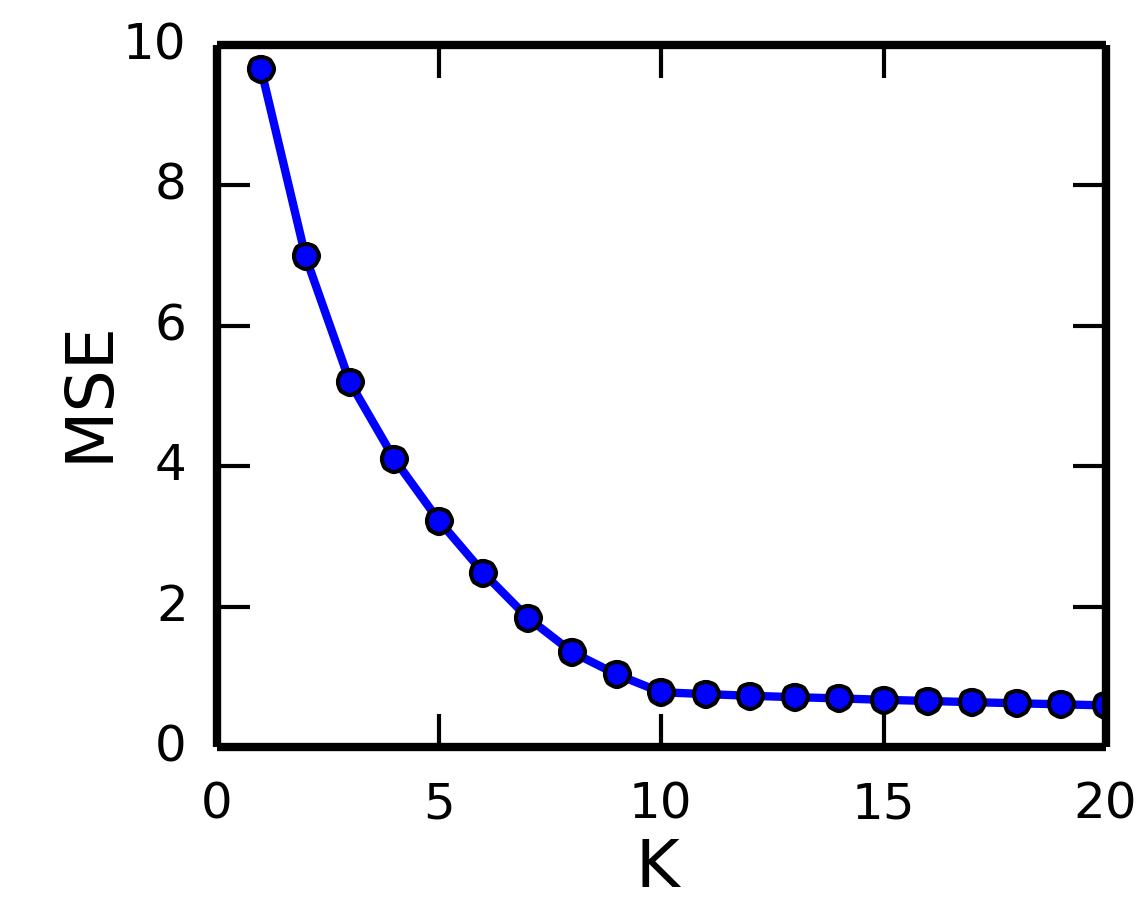
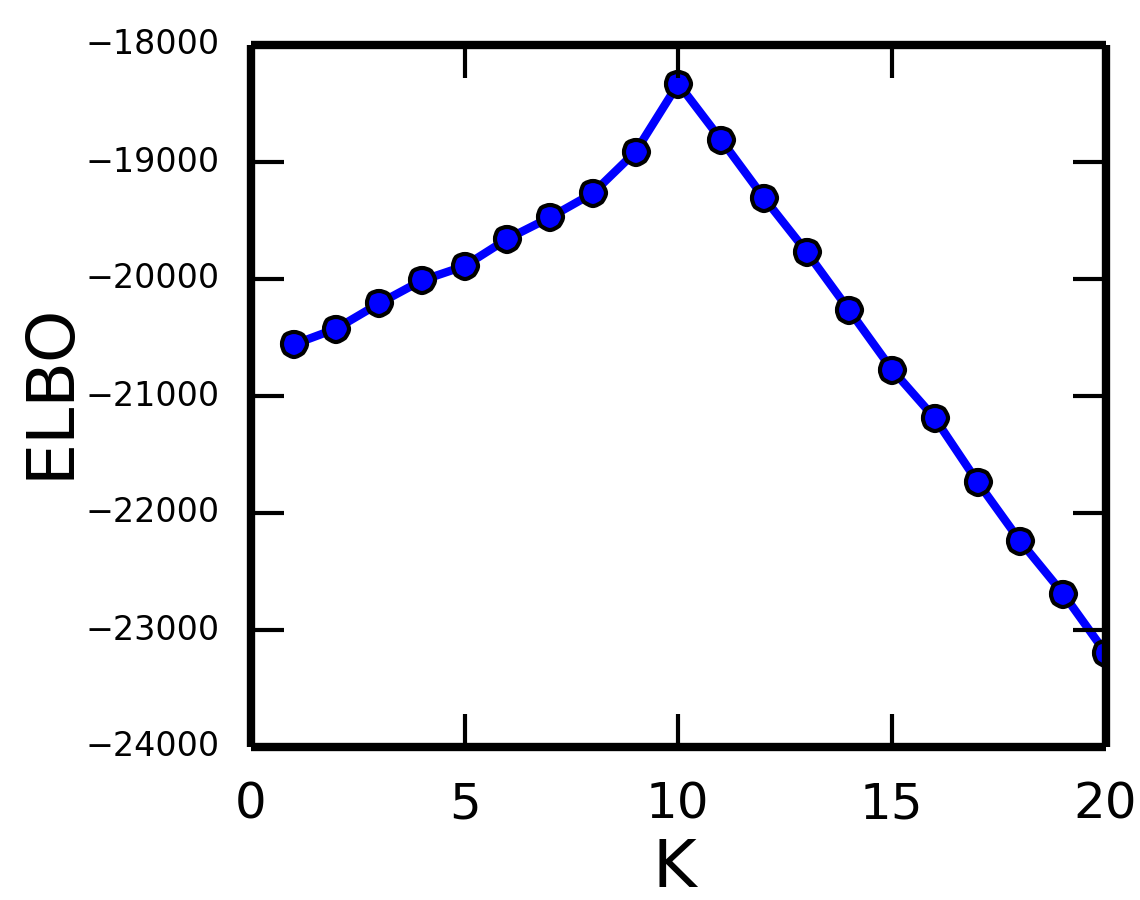
Added ELBO as model selection performance measure. Reran BNMF model selection with ELBO as well.

diff --git a/plots/model_selection/plot_nmf_model_selection.py b/plots/model_selection/plot_nmf_model_selection.py
@@ -13,12 +13,13 @@ import matplotlib.pyplot as plt
 
 values_K = range(1,20+1)
 
-vb_all_values = {'MSE': [9.6549057058769172, 6.9884484321573099, 5.1934558411893263, 4.0992884584119622, 3.2240598340019346, 2.4818906465963311, 1.8406504508732986, 1.3502204910226565, 1.0333349580316775, 0.78017988120303972, 0.75361070313227285, 0.72978226838232485, 0.7099944773500656, 0.69208188151852712, 0.6725243354242475, 0.65582783054509486, 0.63850413370173831, 0.62299533285704889, 0.60796336865454281, 0.59211139754569109], 'loglikelihood': [-20422.878028449726, -19133.050411760163, -17950.489043043988, -17011.744324390602, -16060.301690117441, -15024.660282332354, -13842.706832984462, -12619.297660607001, -11566.289337162721, -10461.721305930792, -10340.456751510523, -10230.967539005962, -10140.60032716368, -10057.810701562652, -9965.5778556505502, -9887.236373074742, -9803.3442204645653, -9729.0856510921694, -9657.9307609909029, -9581.8361432246875], 'AIC': [41205.756056899452, 38986.100823520326, 36980.978086087976, 35463.488648781204, 33920.603380234883, 32209.320564664707, 30205.413665968925, 28118.595321214001, 26372.578674325443, 24523.442611861585, 24640.913503021045, 24781.935078011924, 24961.20065432736, 25155.621403125304, 25331.1557113011, 25534.472746149484, 25726.688440929131, 25938.171302184339, 26155.861521981806, 26363.672286449375], 'BIC': [42463.451484618607, 41501.491678958635, 40754.06436924544, 40494.270359657821, 40209.080518830655, 39755.493130979637, 39009.281660003013, 38180.158742967244, 37691.83752379784, 37100.39688905314, 38475.563207931751, 39874.28021064178, 41311.241214676382, 42763.35739119348, 44196.587127088424, 45657.599589655962, 47107.510712154763, 48576.689001129133, 50052.07464864575, 51517.580840832481]}
+#vb_all_values = {'MSE': [9.6549057058769172, 6.9884484321573099, 5.1934558411893263, 4.0992884584119622, 3.2240598340019346, 2.4818906465963311, 1.8406504508732986, 1.3502204910226565, 1.0333349580316775, 0.78017988120303972, 0.75361070313227285, 0.72978226838232485, 0.7099944773500656, 0.69208188151852712, 0.6725243354242475, 0.65582783054509486, 0.63850413370173831, 0.62299533285704889, 0.60796336865454281, 0.59211139754569109], 'loglikelihood': [-20422.878028449726, -19133.050411760163, -17950.489043043988, -17011.744324390602, -16060.301690117441, -15024.660282332354, -13842.706832984462, -12619.297660607001, -11566.289337162721, -10461.721305930792, -10340.456751510523, -10230.967539005962, -10140.60032716368, -10057.810701562652, -9965.5778556505502, -9887.236373074742, -9803.3442204645653, -9729.0856510921694, -9657.9307609909029, -9581.8361432246875], 'AIC': [41205.756056899452, 38986.100823520326, 36980.978086087976, 35463.488648781204, 33920.603380234883, 32209.320564664707, 30205.413665968925, 28118.595321214001, 26372.578674325443, 24523.442611861585, 24640.913503021045, 24781.935078011924, 24961.20065432736, 25155.621403125304, 25331.1557113011, 25534.472746149484, 25726.688440929131, 25938.171302184339, 26155.861521981806, 26363.672286449375], 'BIC': [42463.451484618607, 41501.491678958635, 40754.06436924544, 40494.270359657821, 40209.080518830655, 39755.493130979637, 39009.281660003013, 38180.158742967244, 37691.83752379784, 37100.39688905314, 38475.563207931751, 39874.28021064178, 41311.241214676382, 42763.35739119348, 44196.587127088424, 45657.599589655962, 47107.510712154763, 48576.689001129133, 50052.07464864575, 51517.580840832481]}
+vb_all_values = {'ELBO': [-20559.658764958851, -20424.120723364082, -20209.284045284217, -20012.561227029946, -19889.319197829805, -19657.311622654452, -19473.490336818944, -19267.048016094119, -18912.115938037805, -18329.50591698091, -18809.334650368506, -19304.691887856607, -19767.555234593932, -20268.193885291275, -20773.991056688828, -21189.283504724757, -21734.29803683488, -22241.765567956845, -22688.476168265963, -23197.727483736431], 'MSE': [8.2790315388098428, 6.8495626167282246, 5.5410598879469743, 4.4761883559025826, 3.659717059598115, 2.8588525895825385, 2.2424246746433272, 1.7248753317244685, 1.246168045195883, 0.815548276624941, 0.78717618569773851, 0.76406277232904585, 0.74314774728313038, 0.72298044653208815, 0.70351739691239468, 0.68246368859804385, 0.66522455223188603, 0.64721761219430385, 0.63288920223204137, 0.61885747450694928], 'loglikelihood': [-19807.918073897767, -19052.750182694072, -18209.90007578626, -17363.528085767659, -16566.512224393806, -15589.445367408904, -14630.398834182259, -13595.779982957489, -12313.867350887318, -10640.278910973106, -10516.447007678722, -10415.58251379443, -10323.88595046007, -10235.123139857769, -10145.813053824566, -10051.283796237665, -9972.6960754446864, -9887.9220256319513, -9825.8530977896717, -9763.1045072060951], 'AIC': [39975.836147795533, 38825.500365388143, 37499.800151572519, 36167.056171535318, 34933.024448787612, 33338.890734817804, 31780.797668364517, 30071.559965914978, 27867.734701774636, 24880.557821946211, 24992.894015357444, 25151.165027588861, 25327.771900920139, 25510.246279715539, 25691.626107649132, 25862.56759247533, 26065.392150889373, 26255.844051263903, 26491.706195579343, 26726.20901441219], 'BIC': [41233.531575514688, 41340.891220826452, 41272.886434729982, 41197.837882411935, 41221.501587383391, 40885.063301132737, 40584.665662398605, 40133.123387668216, 39186.993551247033, 37457.512099137763, 38827.54372026815, 40243.510160218721, 41677.812461269161, 43117.982267783707, 44557.057523436459, 45985.694435981815, 47446.214422115008, 48894.3617502087, 50387.919322243295, 51880.117568795293]}
 
-metrics = ['MSE']#, 'MSE', 'BIC']
+metrics = ['MSE', 'AIC', 'ELBO']
 for metric in metrics:
     fig = plt.figure(figsize=(1.9,1.5))
-    fig.subplots_adjust(left=0.19, right=0.97, bottom=0.17, top=0.95)
+    fig.subplots_adjust(left=0.22, right=0.97, bottom=0.17, top=0.95)
     #plt.title("Performances (%s) for different fractions of missing values" % metric)
     plt.xlabel("K", fontsize=8, labelpad=1)
     plt.ylabel(metric, fontsize=8, labelpad=0)

diff --git a/experiments/grid_search/run_line_search_bnmf_vb.py b/experiments/grid_search/run_line_search_bnmf_vb.py
@@ -53,7 +53,7 @@ line_search = LineSearch(classifier,values_K,R,M,priors,initUV,iterations,restar
 line_search.search()
 
 # Plot the performances of all three metrics
-metrics = ['loglikelihood', 'BIC', 'AIC', 'MSE']
+metrics = ['loglikelihood', 'BIC', 'AIC', 'MSE', 'ELBO']
 for metric in metrics:
     plt.figure()
     plt.plot(values_K, line_search.all_values(metric), label=metric)
@@ -68,4 +68,6 @@ print "all_values = %s" % all_values
 
 '''
 all_values = {'MSE': [9.6549057058769172, 6.9884484321573099, 5.1934558411893263, 4.0992884584119622, 3.2240598340019346, 2.4818906465963311, 1.8406504508732986, 1.3502204910226565, 1.0333349580316775, 0.78017988120303972, 0.75361070313227285, 0.72978226838232485, 0.7099944773500656, 0.69208188151852712, 0.6725243354242475, 0.65582783054509486, 0.63850413370173831, 0.62299533285704889, 0.60796336865454281, 0.59211139754569109], 'loglikelihood': [-20422.878028449726, -19133.050411760163, -17950.489043043988, -17011.744324390602, -16060.301690117441, -15024.660282332354, -13842.706832984462, -12619.297660607001, -11566.289337162721, -10461.721305930792, -10340.456751510523, -10230.967539005962, -10140.60032716368, -10057.810701562652, -9965.5778556505502, -9887.236373074742, -9803.3442204645653, -9729.0856510921694, -9657.9307609909029, -9581.8361432246875], 'AIC': [41205.756056899452, 38986.100823520326, 36980.978086087976, 35463.488648781204, 33920.603380234883, 32209.320564664707, 30205.413665968925, 28118.595321214001, 26372.578674325443, 24523.442611861585, 24640.913503021045, 24781.935078011924, 24961.20065432736, 25155.621403125304, 25331.1557113011, 25534.472746149484, 25726.688440929131, 25938.171302184339, 26155.861521981806, 26363.672286449375], 'BIC': [42463.451484618607, 41501.491678958635, 40754.06436924544, 40494.270359657821, 40209.080518830655, 39755.493130979637, 39009.281660003013, 38180.158742967244, 37691.83752379784, 37100.39688905314, 38475.563207931751, 39874.28021064178, 41311.241214676382, 42763.35739119348, 44196.587127088424, 45657.599589655962, 47107.510712154763, 48576.689001129133, 50052.07464864575, 51517.580840832481]}
+
+all_values_2 = {'ELBO': [-20559.658764958851, -20424.120723364082, -20209.284045284217, -20012.561227029946, -19889.319197829805, -19657.311622654452, -19473.490336818944, -19267.048016094119, -18912.115938037805, -18329.50591698091, -18809.334650368506, -19304.691887856607, -19767.555234593932, -20268.193885291275, -20773.991056688828, -21189.283504724757, -21734.29803683488, -22241.765567956845, -22688.476168265963, -23197.727483736431], 'MSE': [8.2790315388098428, 6.8495626167282246, 5.5410598879469743, 4.4761883559025826, 3.659717059598115, 2.8588525895825385, 2.2424246746433272, 1.7248753317244685, 1.246168045195883, 0.815548276624941, 0.78717618569773851, 0.76406277232904585, 0.74314774728313038, 0.72298044653208815, 0.70351739691239468, 0.68246368859804385, 0.66522455223188603, 0.64721761219430385, 0.63288920223204137, 0.61885747450694928], 'loglikelihood': [-19807.918073897767, -19052.750182694072, -18209.90007578626, -17363.528085767659, -16566.512224393806, -15589.445367408904, -14630.398834182259, -13595.779982957489, -12313.867350887318, -10640.278910973106, -10516.447007678722, -10415.58251379443, -10323.88595046007, -10235.123139857769, -10145.813053824566, -10051.283796237665, -9972.6960754446864, -9887.9220256319513, -9825.8530977896717, -9763.1045072060951], 'AIC': [39975.836147795533, 38825.500365388143, 37499.800151572519, 36167.056171535318, 34933.024448787612, 33338.890734817804, 31780.797668364517, 30071.559965914978, 27867.734701774636, 24880.557821946211, 24992.894015357444, 25151.165027588861, 25327.771900920139, 25510.246279715539, 25691.626107649132, 25862.56759247533, 26065.392150889373, 26255.844051263903, 26491.706195579343, 26726.20901441219], 'BIC': [41233.531575514688, 41340.891220826452, 41272.886434729982, 41197.837882411935, 41221.501587383391, 40885.063301132737, 40584.665662398605, 40133.123387668216, 39186.993551247033, 37457.512099137763, 38827.54372026815, 40243.510160218721, 41677.812461269161, 43117.982267783707, 44557.057523436459, 45985.694435981815, 47446.214422115008, 48894.3617502087, 50387.919322243295, 51880.117568795293]}
 '''

diff --git a/code/bnmtf_vb_optimised.py b/code/bnmtf_vb_optimised.py
@@ -43,6 +43,7 @@ Finally, we can return the goodness of fit of the data using the quality(metric)
          = 'BIC'        -> return Bayesian Information Criterion
          = 'AIC'        -> return Afaike Information Criterion
          = 'MSE'        -> return Mean Square Error
+         = 'ELBO'       -> return Evidence Lower Bound
 (we want to maximise these values)
 """
 
@@ -321,7 +322,7 @@ class bnmtf_vb_optimised:
         
     # Functions for model selection, measuring the goodness of fit vs model complexity
     def quality(self,metric):
-        assert metric in ['loglikelihood','BIC','AIC','MSE'], 'Unrecognised metric for model quality: %s.' % metric
+        assert metric in ['loglikelihood','BIC','AIC','MSE','ELBO'], 'Unrecognised metric for model quality: %s.' % metric
         log_likelihood = self.log_likelihood()
         if metric == 'loglikelihood':
             return log_likelihood
@@ -334,6 +335,8 @@ class bnmtf_vb_optimised:
         elif metric == 'MSE':
             R_pred = self.triple_dot(self.expF,self.expS,self.expG.T)
             return self.compute_MSE(self.M,self.R,R_pred)
+        elif metric == 'ELBO':
+            return self.elbo()
         
     def log_likelihood(self):
         # Return the likelihood of the data given the trained model's parameters

diff --git a/code/bnmf_vb_optimised.py b/code/bnmf_vb_optimised.py
@@ -37,6 +37,7 @@ Finally, we can return the goodness of fit of the data using the quality(metric)
          = 'BIC'        -> return Bayesian Information Criterion
          = 'AIC'        -> return Afaike Information Criterion
          = 'MSE'        -> return Mean Square Error
+         = 'ELBO'       -> return Evidence Lower Bound
 (we want to maximise these values)
 """
 
@@ -244,7 +245,7 @@ class bnmf_vb_optimised:
         
     # Functions for model selection, measuring the goodness of fit vs model complexity
     def quality(self,metric):
-        assert metric in ['loglikelihood','BIC','AIC','MSE'], 'Unrecognised metric for model quality: %s.' % metric
+        assert metric in ['loglikelihood','BIC','AIC','MSE','ELBO'], 'Unrecognised metric for model quality: %s.' % metric
         log_likelihood = self.log_likelihood()
         if metric == 'loglikelihood':
             return log_likelihood
@@ -257,6 +258,8 @@ class bnmf_vb_optimised:
         elif metric == 'MSE':
             R_pred = numpy.dot(self.expU,self.expV.T)
             return self.compute_MSE(self.M,self.R,R_pred)
+        elif metric == 'ELBO':
+            return self.elbo()
         
     def log_likelihood(self):
         # Return the likelihood of the data given the trained model's parameters

diff --git a/code/bnmtf_gibbs_optimised.py b/code/bnmtf_gibbs_optimised.py
@@ -263,7 +263,7 @@ class bnmtf_gibbs_optimised:
         
     # Functions for model selection, measuring the goodness of fit vs model complexity
     def quality(self,metric,burn_in,thinning):
-        assert metric in ['loglikelihood','BIC','AIC','MSE'], 'Unrecognised metric for model quality: %s.' % metric
+        assert metric in ['loglikelihood','BIC','AIC','MSE','ELBO'], 'Unrecognised metric for model quality: %s.' % metric
         
         (expF,expS,expG,exptau) = self.approx_expectation(burn_in,thinning)
         log_likelihood = self.log_likelihood(expF,expS,expG,exptau)
@@ -279,6 +279,8 @@ class bnmtf_gibbs_optimised:
         elif metric == 'MSE':
             R_pred = self.triple_dot(expF,expS,expG.T)
             return self.compute_MSE(self.M,self.R,R_pred)
+        elif metric == 'ELBO':
+            return 0.
         
     def log_likelihood(self,expF,expS,expG,exptau):
         # Return the likelihood of the data given the trained model's parameters

diff --git a/code/bnmf_gibbs_optimised.py b/code/bnmf_gibbs_optimised.py
@@ -225,7 +225,7 @@ class bnmf_gibbs_optimised:
 
     # Functions for model selection, measuring the goodness of fit vs model complexity
     def quality(self,metric,burn_in,thinning):
-        assert metric in ['loglikelihood','BIC','AIC','MSE'], 'Unrecognised metric for model quality: %s.' % metric
+        assert metric in ['loglikelihood','BIC','AIC','MSE','ELBO'], 'Unrecognised metric for model quality: %s.' % metric
         
         (expU,expV,exptau) = self.approx_expectation(burn_in,thinning)
         log_likelihood = self.log_likelihood(expU,expV,exptau)
@@ -241,6 +241,8 @@ class bnmf_gibbs_optimised:
         elif metric == 'MSE':
             R_pred = numpy.dot(expU,expV.T)
             return self.compute_MSE(self.M,self.R,R_pred)
+        elif metric == 'ELBO':
+            return 0.
         
     def log_likelihood(self,expU,expV,exptau):
         # Return the likelihood of the data given the trained model's parameters

diff --git a/grid_search/greedy_search_bnmtf.py b/grid_search/greedy_search_bnmtf.py
@@ -47,7 +47,7 @@ sys.path.append(project_location)
 
 import numpy
 
-metrics = ['BIC','AIC','loglikelihood','MSE']
+metrics = ['BIC','AIC','loglikelihood','MSE','ELBO']
 
 class GreedySearch:
     def __init__(self,classifier,values_K,values_L,R,M,priors,initS,initFG,iterations,restarts=1):

diff --git a/grid_search/grid_search_bnmtf.py b/grid_search/grid_search_bnmtf.py
@@ -40,7 +40,7 @@ sys.path.append(project_location)
 
 import numpy
 
-metrics = ['BIC','AIC','loglikelihood','MSE']
+metrics = ['BIC','AIC','loglikelihood','MSE','ELBO']
 
 class GridSearch:
     def __init__(self,classifier,values_K,values_L,R,M,priors,initS,initFG,iterations,restarts=1):

diff --git a/grid_search/line_search_bnmf.py b/grid_search/line_search_bnmf.py
@@ -34,7 +34,7 @@ sys.path.append(project_location)
 
 import numpy
 
-metrics = ['BIC','AIC','loglikelihood','MSE']
+metrics = ['BIC','AIC','loglikelihood','MSE','ELBO']
 
 class LineSearch:
     def __init__(self,classifier,values_K,R,M,priors,initUV,iterations,restarts=1):

diff --git a/plots/convergence/plot_nmtf_convergences.py b/plots/convergence/plot_nmtf_convergences.py
@@ -14,7 +14,7 @@ We have the following methods:
 
 import matplotlib.pyplot as plt
 metrics = ['MSE']#,'R^2','Rp']
-MSE_max = 8
+MSE_max = 4
 iterations = range(1,1000+1)
 
 folder = "../time_toy/"
